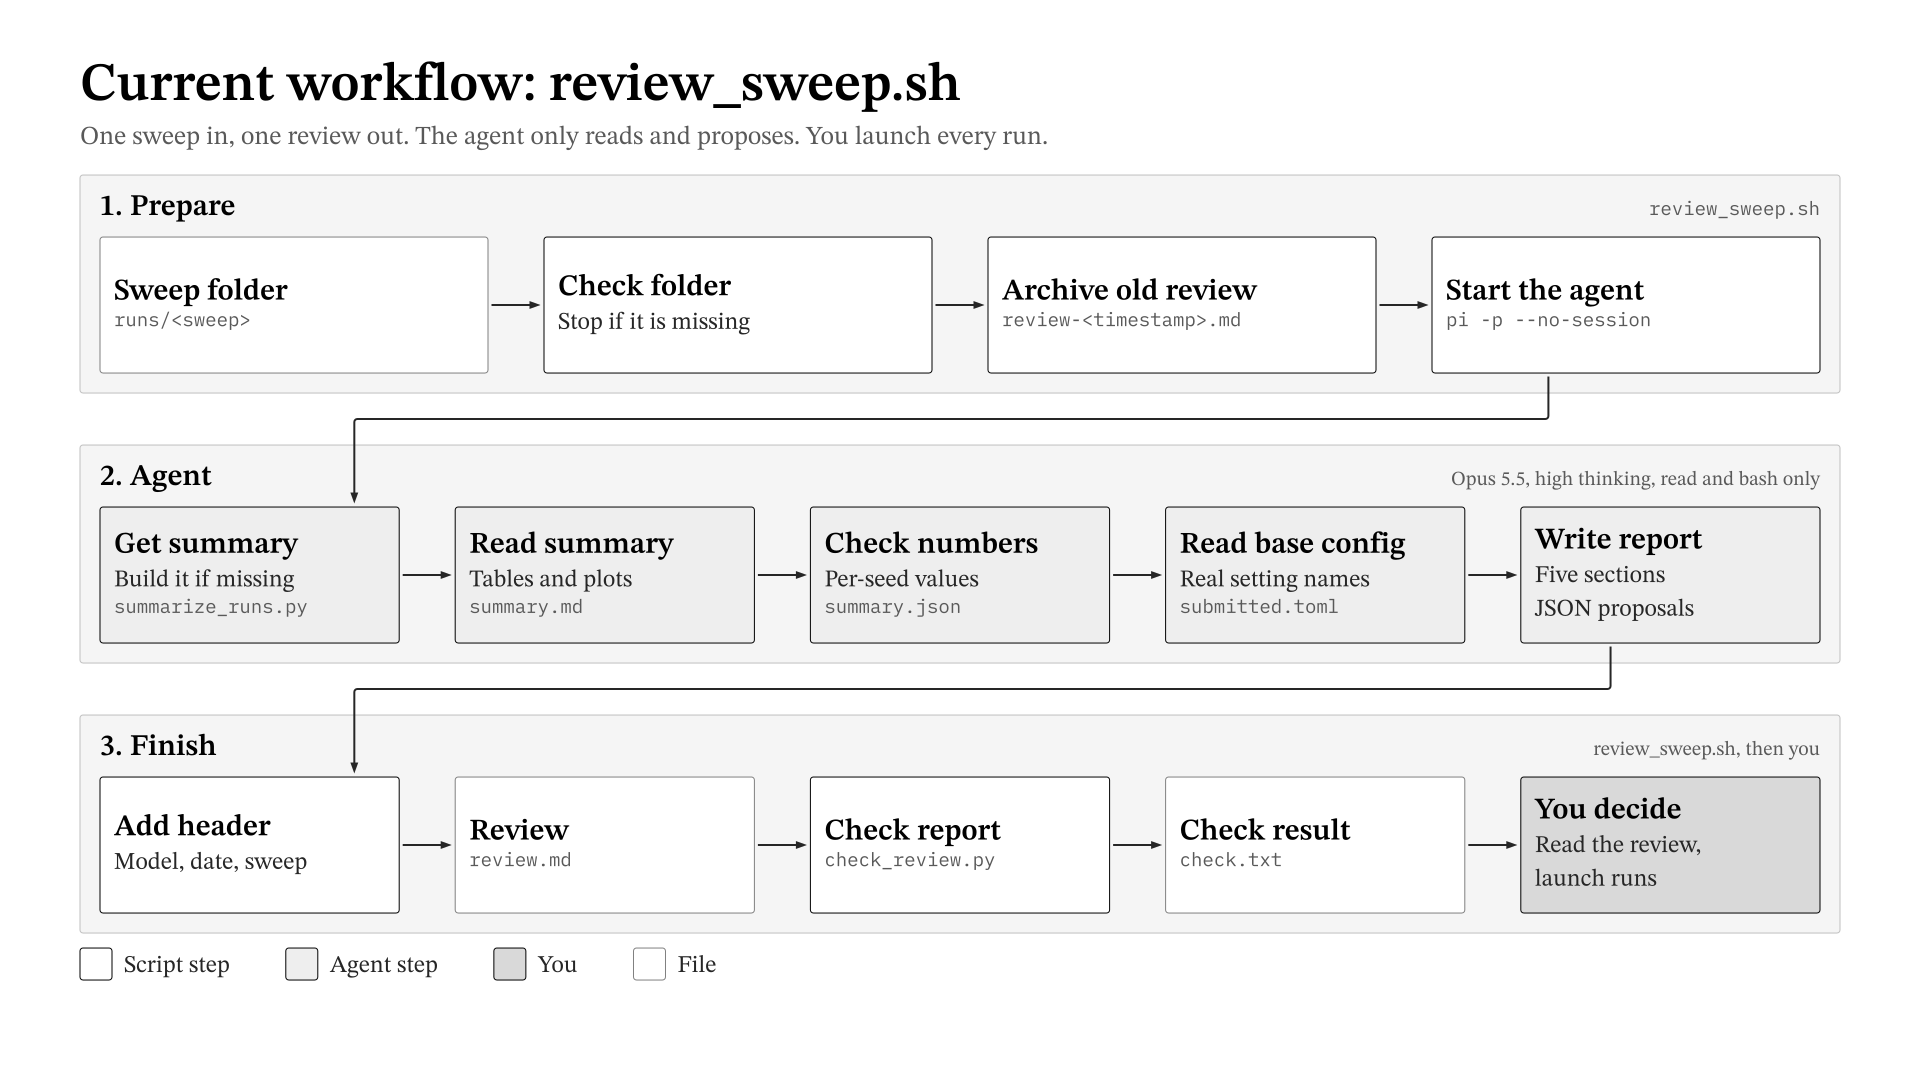
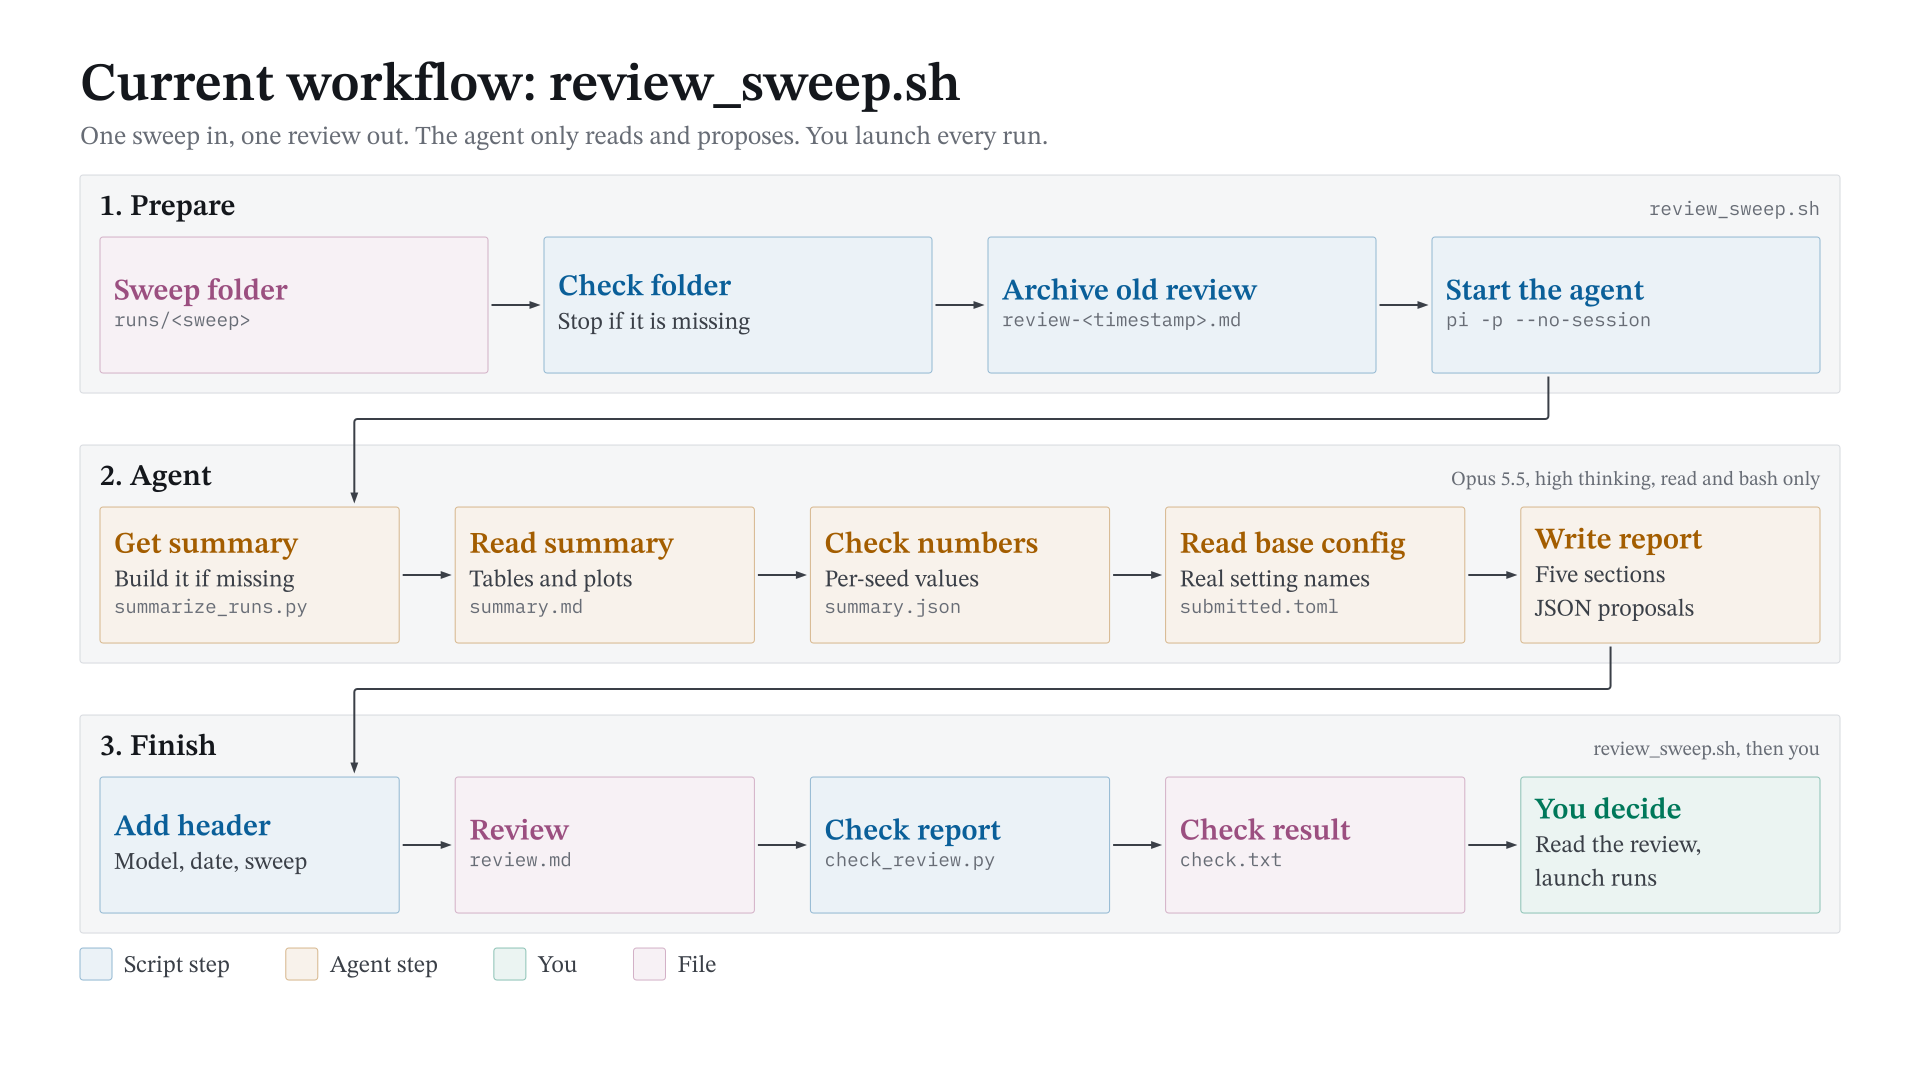
added color

diff --git a/agent_development/figures/current_workflow.py b/agent_development/figures/current_workflow.py
@@ -2,7 +2,7 @@
 import sys; sys.path.insert(0, "/Users/hughcairney/GradSchool/16.S893/hcairney/.pi/skills/svg-figs")
 from svgfig import Figure
 
-f = Figure("deck")
+f = Figure("deck", palette="color")
 M, W = 80, 1760
 f.text(M, 100, "Current workflow: review_sweep.sh", "title", "ink")
 f.text(M, 144, "One sweep in, one review out. The agent only reads and proposes. You launch every run.", "subtitle", "muted")

diff --git a/agent_development/figures/overall_workflow.py b/agent_development/figures/overall_workflow.py
@@ -2,7 +2,7 @@
 import sys; sys.path.insert(0, "/Users/hughcairney/GradSchool/16.S893/hcairney/.pi/skills/svg-figs")
 from svgfig import Figure
 
-f = Figure("deck")
+f = Figure("deck", palette="color")
 M, W = 80, 1760
 f.text(M, 100, "Intended workflow: review and propose loop", "title", "ink")
 f.text(M, 144, "Scripts do the numbers, the agent interprets them, and you launch every run.", "subtitle", "muted")
